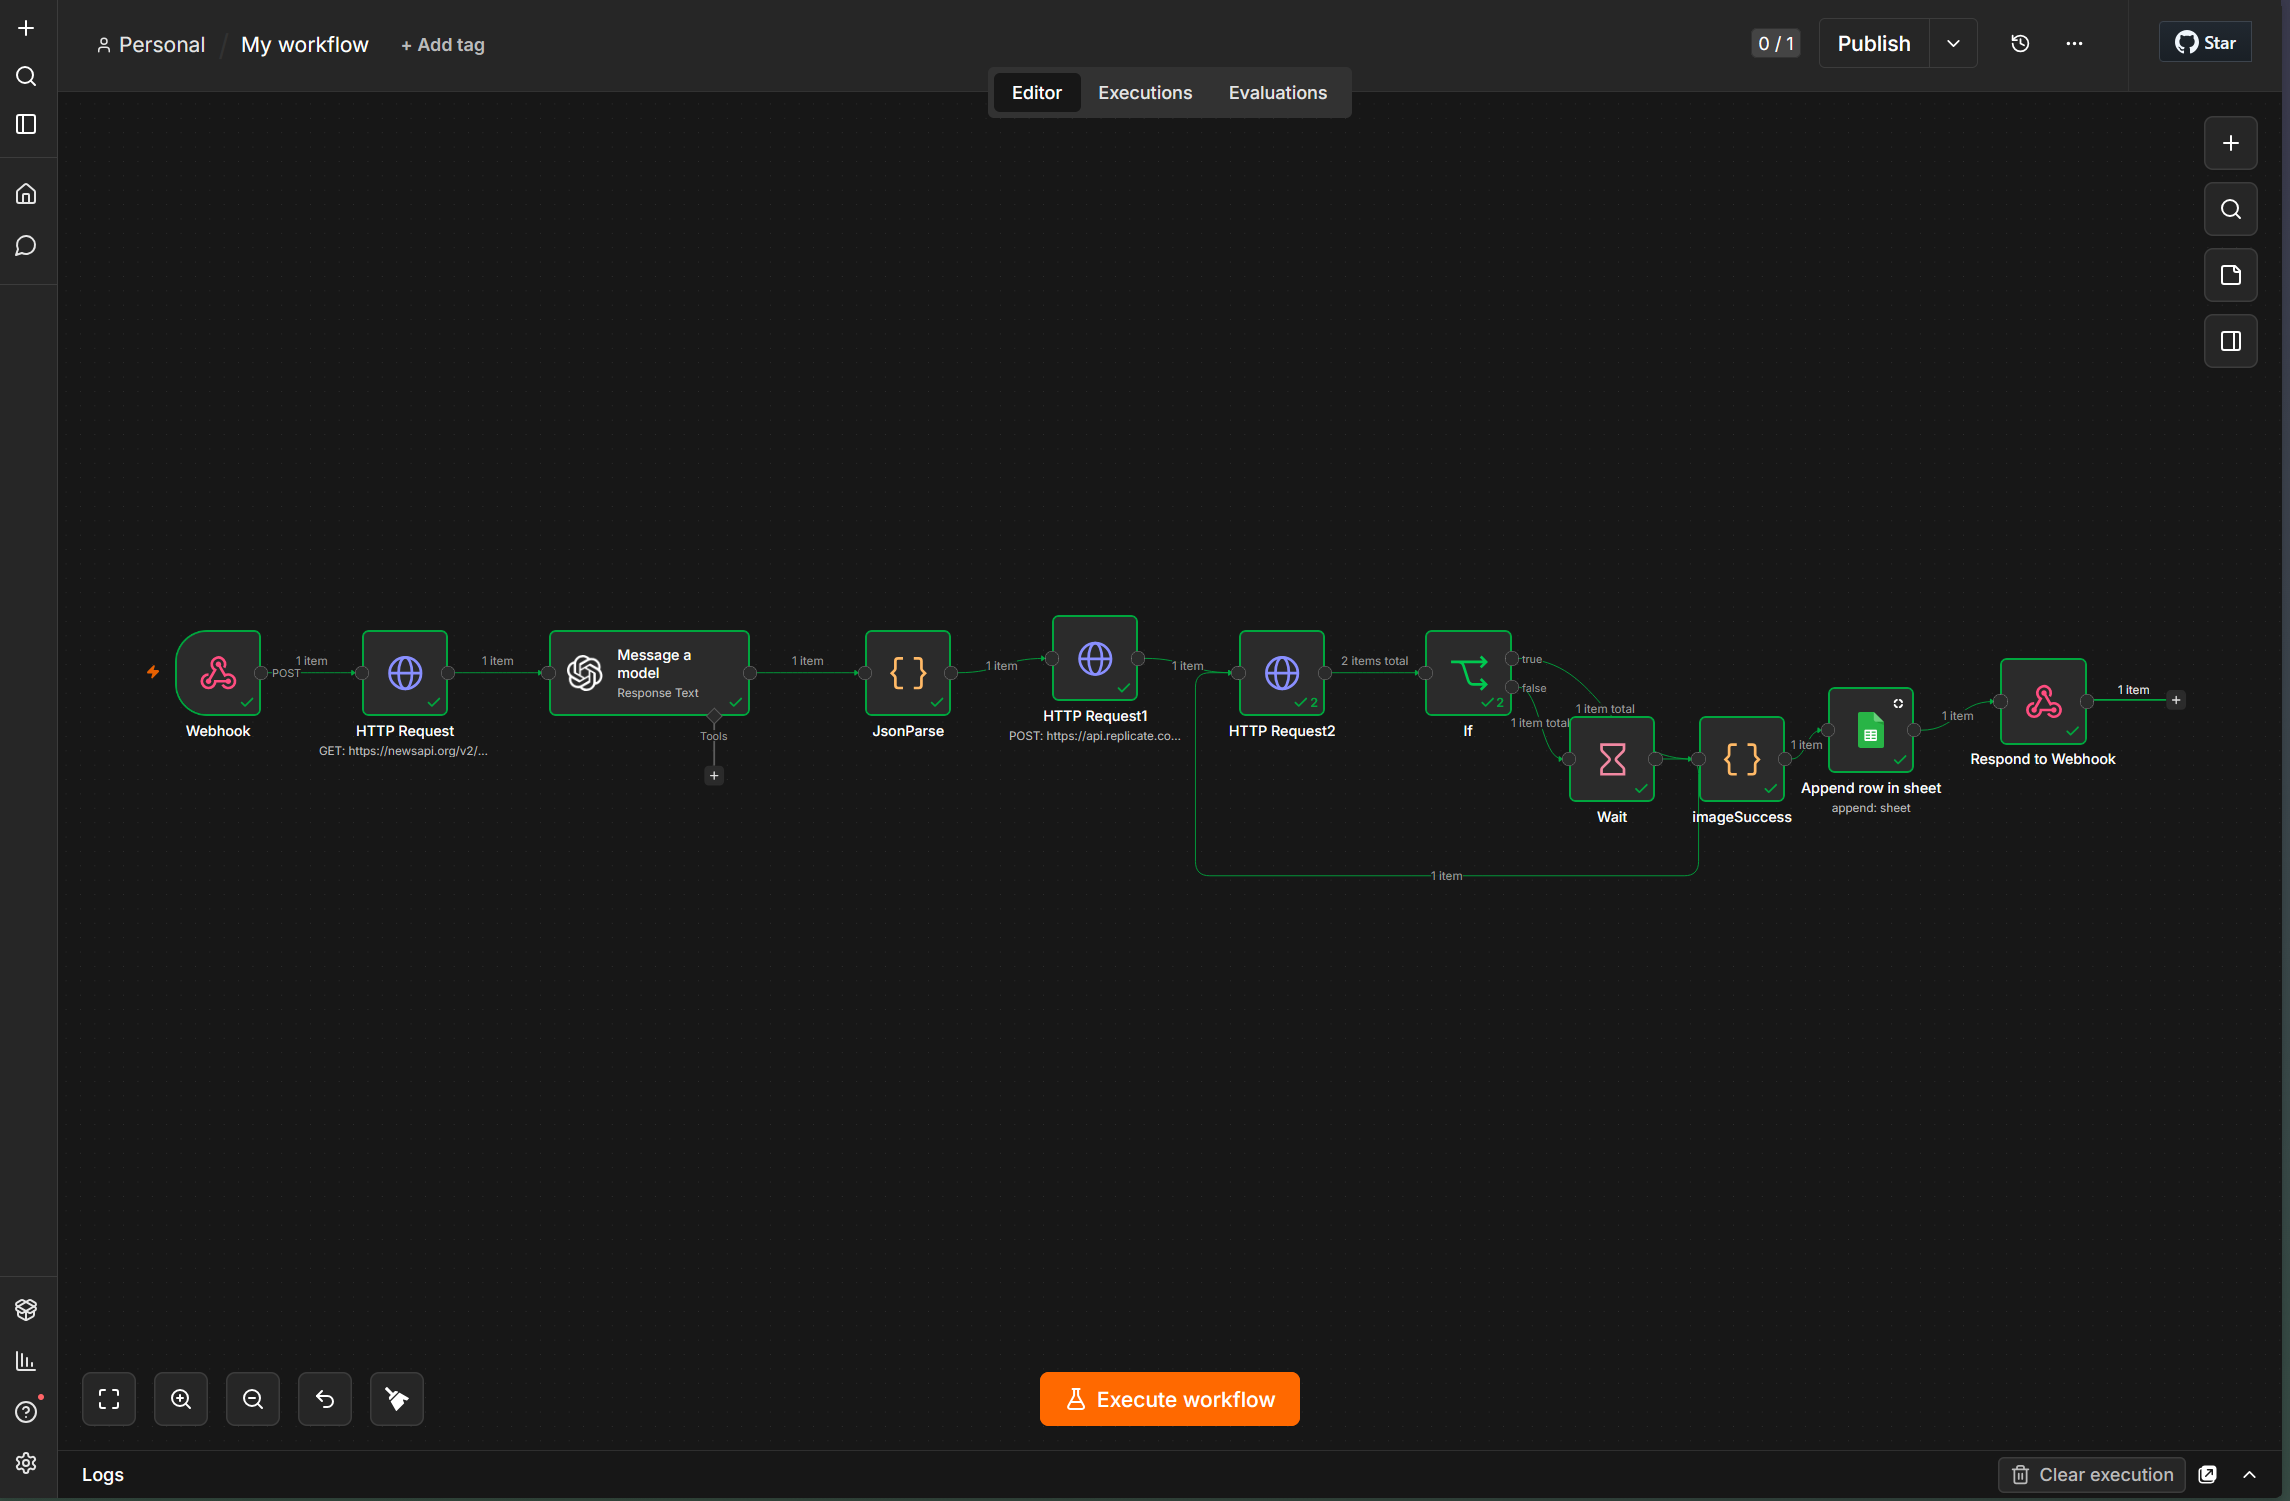
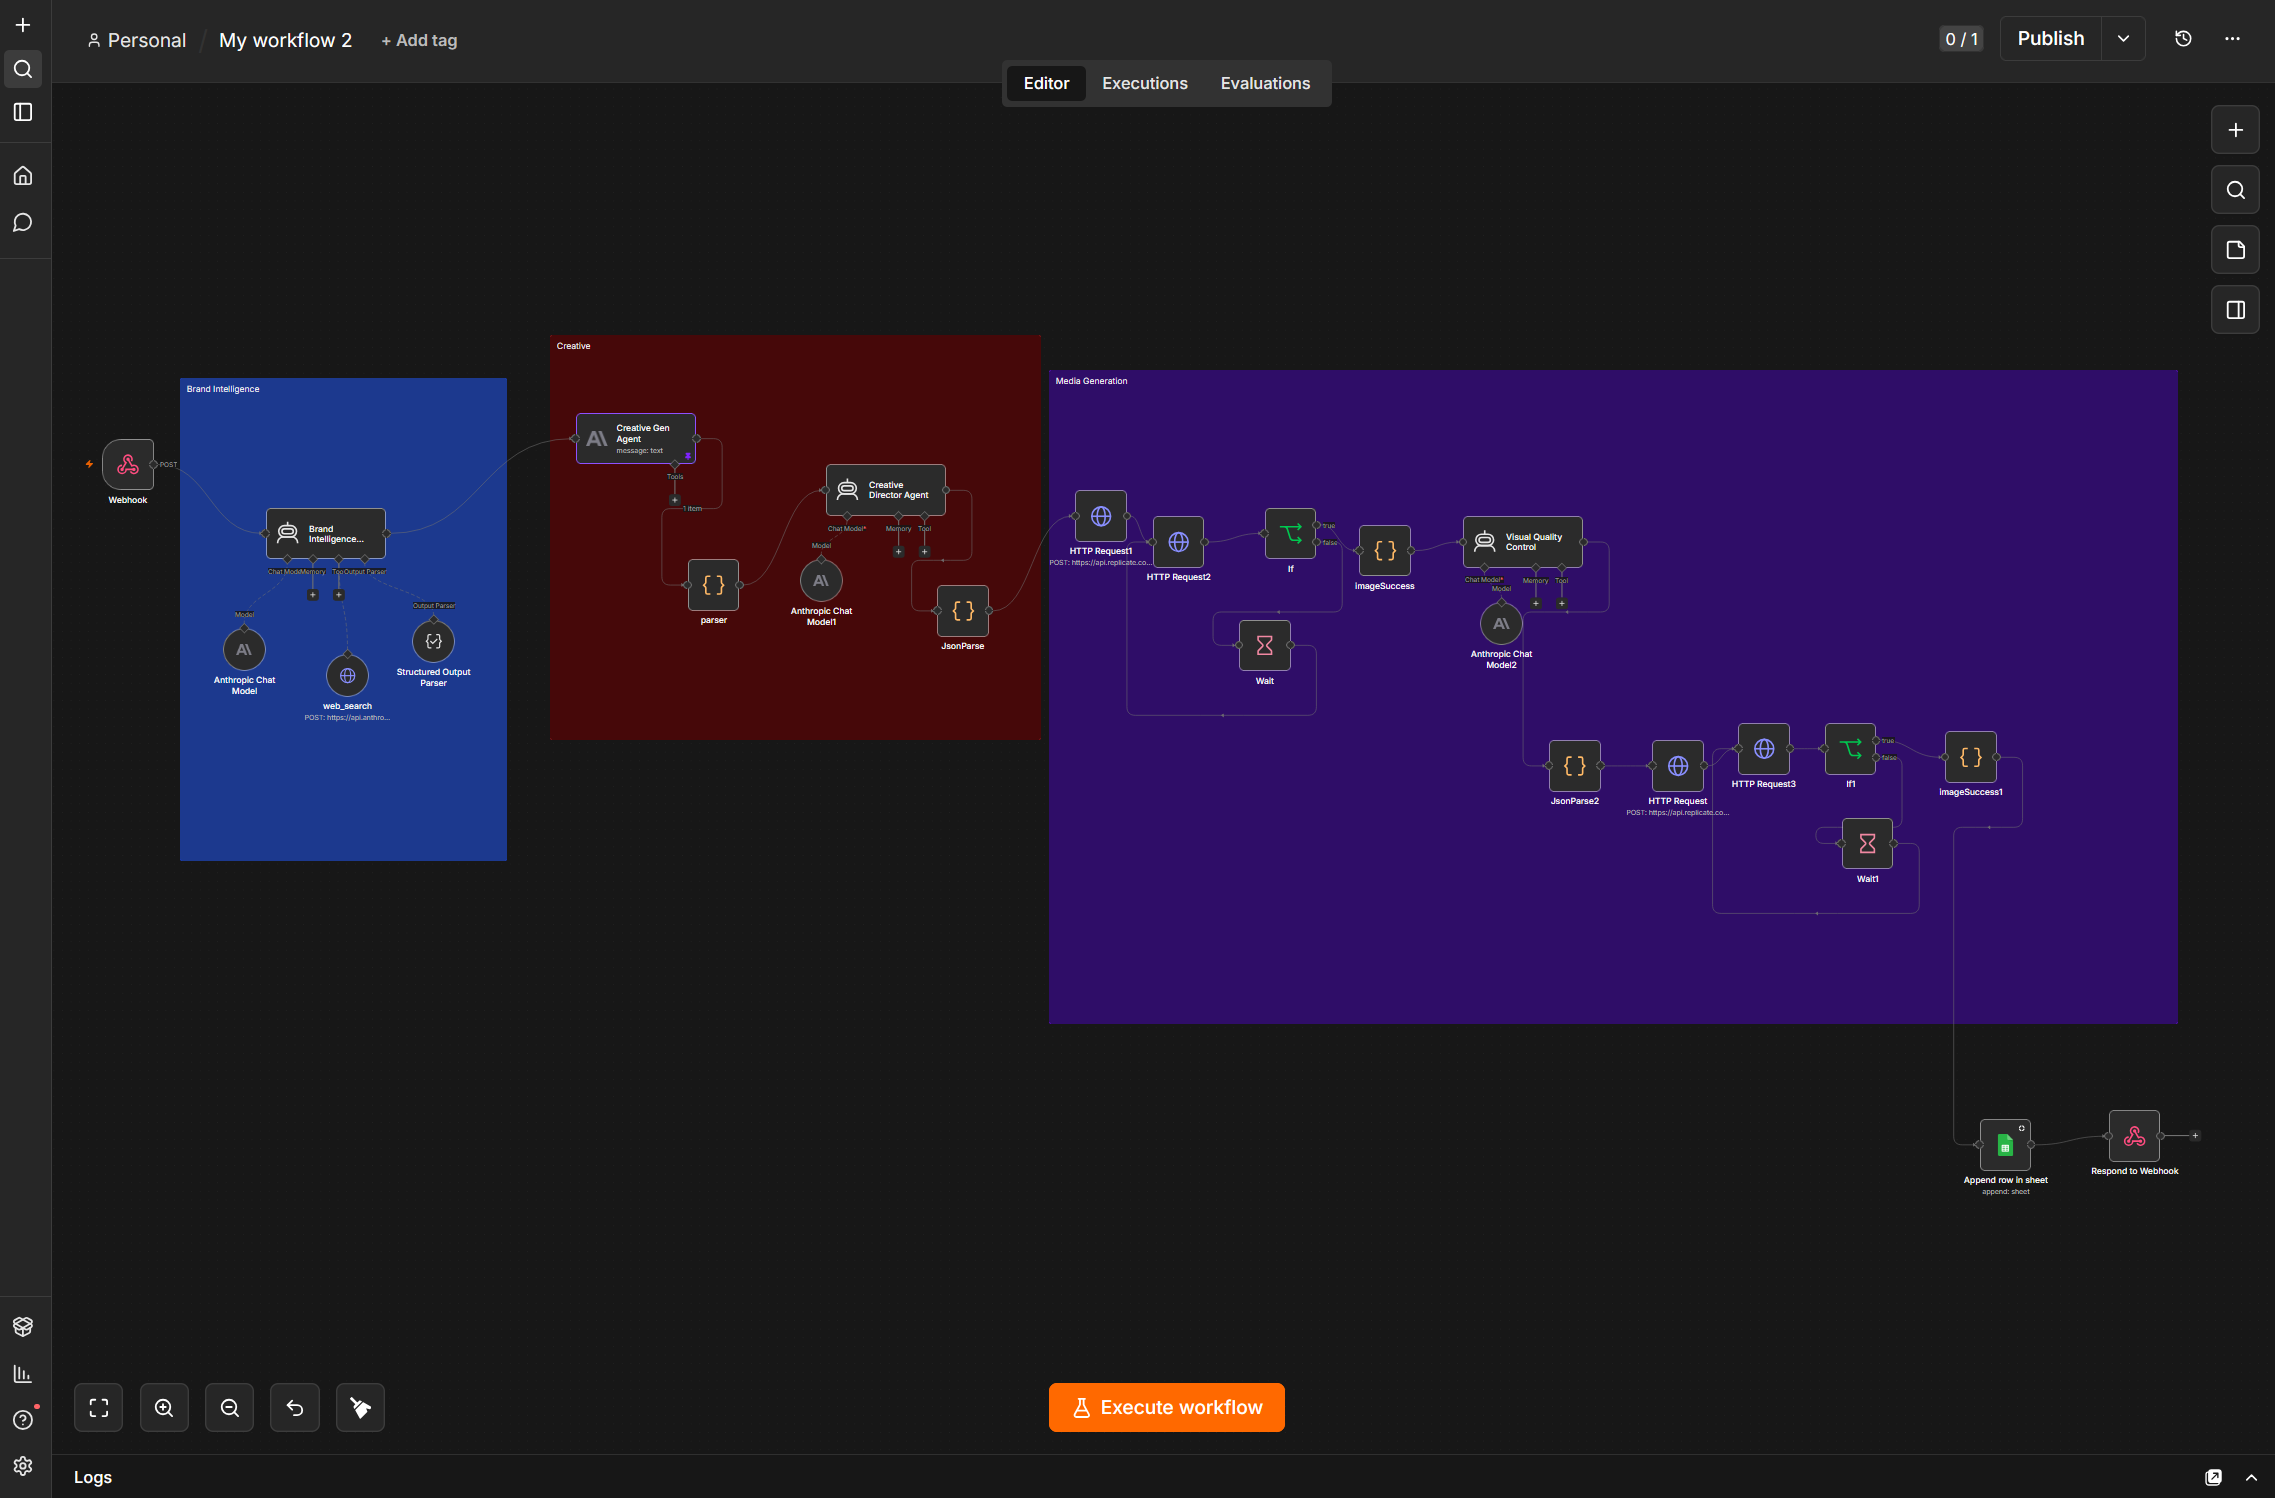
update to ace project

diff --git a/src/app/data/projects.js b/src/app/data/projects.js
@@ -10,9 +10,15 @@ const projects = [
     description:
       "An end-to-end agentic content pipeline built in n8n with a Next.js frontend. The system ingests a campaign brief and autonomously generates a complete multi-platform creative package which combines live trend data, LLM reasoning, and generative AI into a single orchestrated workflow.",
     body:
-      `The pipeline fetches real-time brand news via NewsAPI, feeds trend context alongside the brief into GPT-4o to generate a strategic creative brief, platform-specific copy for Instagram, Twitter and email, an image generation prompt, and a video concept. The image prompt is passed to Flux Schnell via the Replicate API, with an asynchronous polling loop handling inference latency before returning the completed asset. All outputs are logged to Google Sheets and returned to a clean frontend interface in a single response.
+      `The pipeline opens with a Brand Intelligence Agent powered by Claude opus, which uses web search to generate a comprehensive brand config — covering brand voice, content pillars, competitor landscape, banned themes, visual style, and a full trend analysis including emerging themes, cultural moments, audience sentiment, and content opportunities. This config becomes the shared intelligence layer that shapes every downstream decision.
 
-Key engineering patterns: Webhook-triggered orchestration · Structured LLM output parsing · Async API polling with conditional looping · Multi-source data merging · End-to-end pipeline from brief to creative asset`,
+Creative Generation Agent produces platform-specific copy for Instagram, Twitter/X, and email, alongside an image generation prompt and video concept, all strictly informed by the brand intelligence layer.
+
+A Creative Director Agent then critiques the first-pass output against the brand brief, rewrites each element to a higher standard, and produces an improved image prompt. This feeds into Flux 2 Pro via the Replicate API, with an asynchronous polling loop handling inference latency. The generated image is then passed back to Claude's vision capability for art direction critique and prompt refinement.
+
+All outputs brand config, trend analysis, copy variants, quality scores, image URL, and video concept are logged to Google Sheets as a structured campaign record and returned to a clean frontend interface in a single response.
+
+Architecture highlights: Three-agent Claude pipeline with distinct roles: Brand Strategist, Creative Writer, Creative Director · Async image generation with conditional polling loop · Brand safety guardrails derived dynamically from brand config · Structured JSON output parsing throughout with graceful error fallbacks · Dual-endpoint architecture separating fast brand intelligence response from full campaign delivery · Vision-enabled image critique closing the generative loop`,
     images: [
       '/images/n8n Worksflow.png',
       '/images/n8nFrontend.png',
